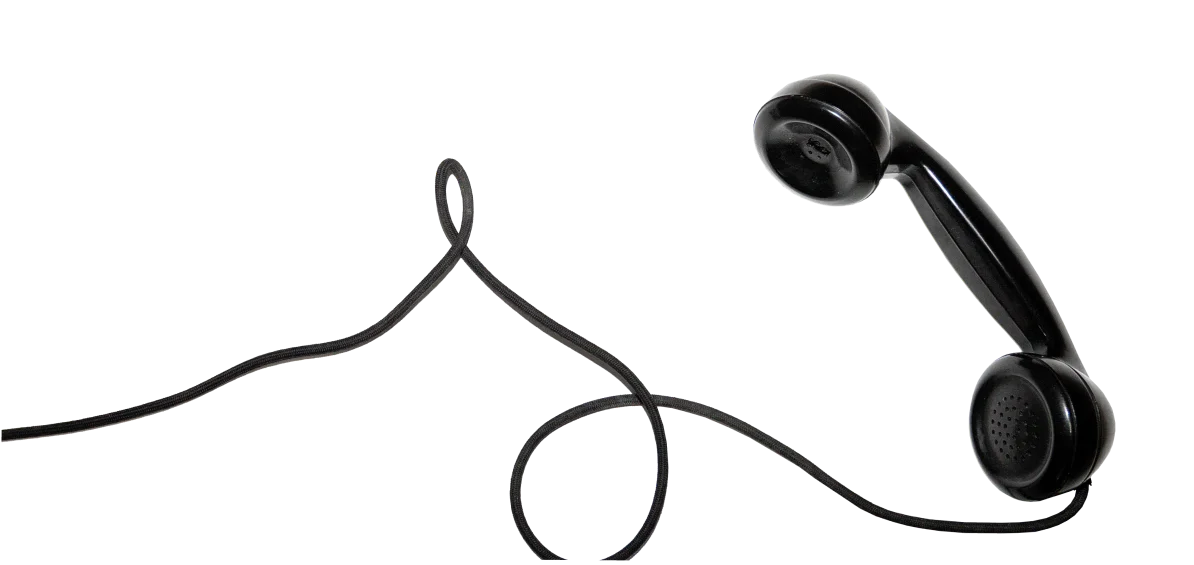
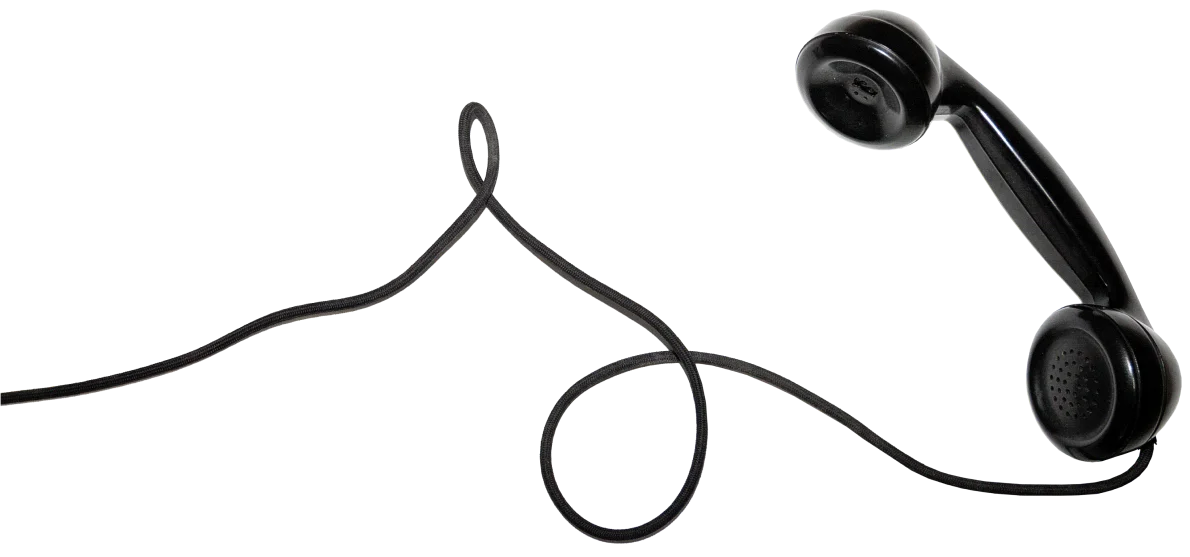
about section implementation

Changed region(s): [[0.0, 0.0, 0.995, 1.0], [0.6529, 0.7935, 0.7151, 0.8851]]

diff --git a/styles/_about.scss b/styles/_about.scss
@@ -1,0 +1,214 @@
+@use "variables" as v;
+@use "mixins" as m;
+
+.about-section {
+    padding: 140px 0 0 0;
+
+    .about {
+        margin: 0 auto;
+        @include m.d-flex(start, center, nowrap, column, 0, 130px);
+
+        &__quality {
+            width: 100%;
+            height: 400px;
+            padding: 0 0 0 15px;
+            background: url("../assets/webp/computer.webp") 100% 70%/550px
+                no-repeat;
+
+            &-title {
+                @include m.font(45px, 400, v.$color-white);
+            }
+
+            &-desc {
+                padding: 20px 0 0 0;
+                @include m.font(20px, 300, v.$color-white);
+                max-width: 590px;
+                line-height: 1.4;
+            }
+
+            @media (max-width: v.$media-xl) {
+                background: linear-gradient(
+                        176deg,
+                        rgba(30, 84, 220, 0.78) 0%,
+                        rgba(0, 0, 0, 0) 74%
+                    ),
+                    url("../assets/webp/computer.webp") 100% 45%/500px no-repeat;
+            }
+
+            @media (max-width: v.$media-md) {
+                background: url(../assets/webp/computer.webp) 100% 100% / 450px
+                    no-repeat;
+
+                &-title {
+                    @include m.font(35px, 400, v.$color-white);
+                }
+
+                &-desc {
+                    @include m.font(16px, 300, v.$color-white);
+                    max-width: 500px;
+                }
+            }
+
+            @media (max-width: v.$media-sm) {
+                background: url(../assets/webp/computer.webp) 150px 100% / 400px
+                    no-repeat;
+            }
+        }
+
+        &__touch {
+            width: 100%;
+            height: 500px;
+            padding: 0 15px 0 0;
+            position: relative;
+            @include m.d-flex(end, end, nowrap, column, 0, 20px);
+
+            &::before {
+                width: 100%;
+                height: 100%;
+                @include m.position(absolute, -1, -1, top, left, 80px, -470px);
+                content: "";
+                background: url("../assets/webp/phone.webp") 50% 70% / contain
+                    no-repeat;
+                rotate: 12deg;
+            }
+
+            &-title {
+                @include m.font(45px, 400, v.$color-white);
+            }
+
+            &-desc {
+                text-align: right;
+                @include m.font(20px, 300, v.$color-white);
+                max-width: 440px;
+                line-height: 1.4;
+            }
+
+            @media (max-width: v.$media-xl) {
+                &::before {
+                    @include m.position(
+                        absolute,
+                        -1,
+                        -1,
+                        top,
+                        left,
+                        83px,
+                        -500px
+                    );
+                }
+            }
+
+            @media (max-width: v.$media-lg) {
+                height: 450px;
+                &::before {
+                    @include m.position(
+                        absolute,
+                        -1,
+                        -1,
+                        top,
+                        left,
+                        53px,
+                        -500px
+                    );
+                }
+            }
+
+            @media (max-width: v.$media-md) {
+                height: 400px;
+                @include m.d-flex(start, end, nowrap, column, 0, 20px);
+
+                &-title {
+                    @include m.font(35px, 400, v.$color-white);
+                }
+
+                &-desc {
+                    @include m.font(16px, 300, v.$color-white);
+                    max-width: 340px;
+                }
+                &::before {
+                    @include m.position(
+                        absolute,
+                        -1,
+                        -1,
+                        top,
+                        left,
+                        0px,
+                        -280px
+                    );
+                    background: url("../assets/webp/phone.webp") 92% 8% / 99%
+                        no-repeat;
+                    rotate: 70deg;
+                }
+            }
+
+            @media (max-width: v.$media-sm) {
+                &::before {
+                    @include m.position(
+                        absolute,
+                        -1,
+                        -1,
+                        top,
+                        left,
+                        0px,
+                        -235px
+                    );
+                    background: url("../assets/webp/phone.webp") 92% 8% / 106%
+                        no-repeat;
+                    rotate: 70deg;
+                }
+            }
+        }
+
+        &__approach {
+            margin: 130px 0 0 0;
+            width: 100%;
+            height: 800px;
+            padding: 0  0 0 15px;
+            background: url("../assets/webp/cactus.webp") 100% 70%/contain
+                no-repeat;
+
+            &-title {
+                margin: 250px 0 0 0;
+                @include m.font(45px, 400, v.$color-white);
+            }
+
+            &-desc {
+                padding: 20px 0 0 0;
+                @include m.font(20px, 300, v.$color-white);
+                max-width: 730px;
+                line-height: 1.4;
+            }
+
+            @media (max-width: v.$media-lg) {
+                background: url("../assets/webp/cactus.webp") 100% 100%/500px
+                no-repeat;
+
+                &-desc {
+                    max-width: 500px;
+                }
+            }
+
+            @media (max-width: v.$media-md) {
+                height: 560px;
+                background: url("../assets/webp/cactus.webp") 100% 100%/320px
+                no-repeat;
+
+                &-title {
+                    margin: 0;
+                    @include m.font(35px, 400, v.$color-white);
+                }
+
+                &-desc {
+                    @include m.font(16px, 300, v.$color-white);
+                    max-width: 400px;
+                }
+            }
+
+            @media (max-width: v.$media-sm) {
+                margin: 0;
+                height: 500px;
+                background: url("../assets/webp/cactus.webp") 100% 100%/250px
+                no-repeat;
+            }
+        }
+    }
+}

diff --git a/index.html b/index.html
@@ -108,19 +108,48 @@
                                 <use href="assets/sprites.svg#stage-icon-5" />
                             </svg>
                             <h3 class="info-card__title">Testing</h3>
-                            <p class="info-card__desk">Providing best quality of things developed by us for customers</p>
+                            <p class="info-card__desk">Providing best quality of things developed by us for customers
+                            </p>
                         </figure>
                         <figure class="info-card card--integration" aria-label="card integration">
                             <svg class="info-card__icon icon--integration" aria-label="integration img">
                                 <use href="assets/sprites.svg#stage-icon-6" />
                             </svg>
                             <h3 class="info-card__title">Integration</h3>
-                            <p class="info-card__desk">Solutions that go with the times to improve businesses and give customers best experience</p>
+                            <p class="info-card__desk">Solutions that go with the times to improve businesses and give
+                                customers best experience</p>
                         </figure>
                     </div>
                 </div>
             </div>
         </section>
+        <hr class="divider">
+        <section class="about-section">
+            <div class="container">
+                <div class="about">
+                    <div class="about__quality">
+                        <h3 class="about__quality-title">High Quality</h3>
+                        <p class="about__quality-desc">We are the leading firm by delivering quality and value to our
+                            clients.
+                            All our professionals have huge experience of creating comfortable
+                            high-quality software. We like what we do.</p>
+                    </div>
+                    <div class="about__touch">
+                        <h3 class="about__touch-title">Always in touch</h3>
+                        <p class="about__touch-desc">We are always ready to answer your questions.
+                            You can call us at the weekends and at night.
+                            Also you can have a meeting for personal consultation.</p>
+                    </div>
+                    <div class="about__approach">
+                        <h3 class="about__approach-title">Individual Approach</h3>
+                        <p class="about__approach-desc">Our company works according to the principle of individual
+                            approach to every client.
+                            This method lets us to get success in problems of all levels.</p>
+                    </div>
+                </div>
+            </div>
+        </section>
+        <hr class="divider">
     </main>
 </body>
 

diff --git a/styles/_importer.scss b/styles/_importer.scss
@@ -3,3 +3,4 @@
 @forward 'header';
 @forward 'hero';
 @forward 'work';
+@forward 'about';

diff --git a/styles/_basic.scss b/styles/_basic.scss
@@ -21,6 +21,7 @@ h6,
 ul,
 p,
 figure,
+hr,
 button {
     margin: 0;
 }
